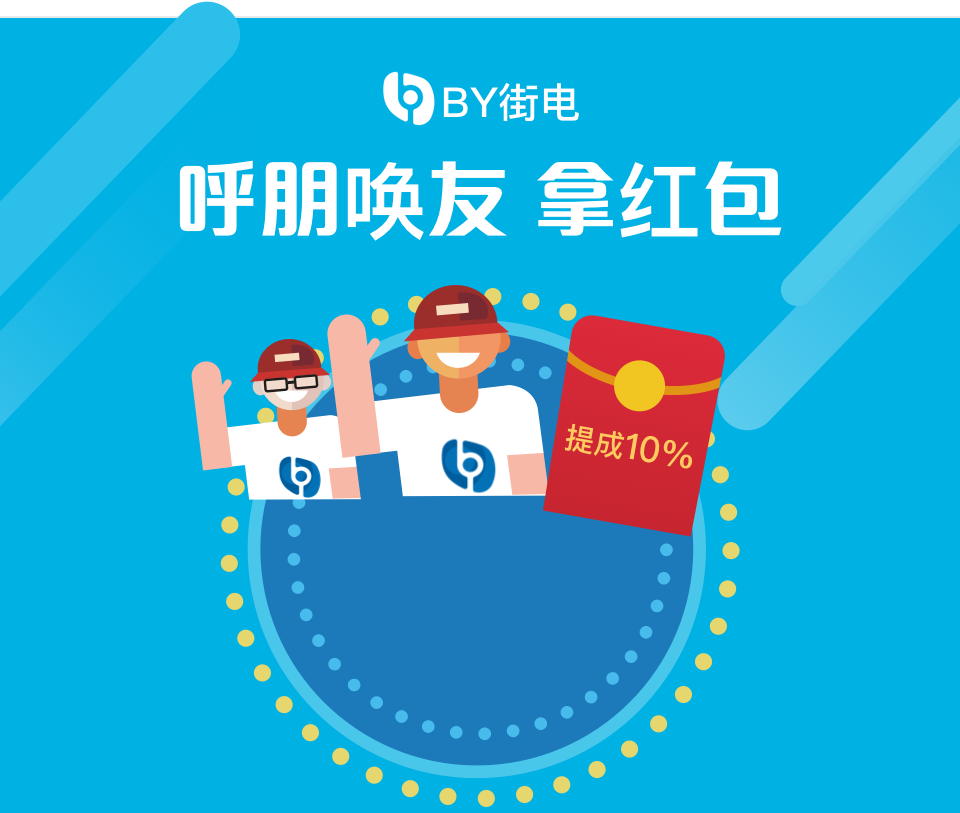
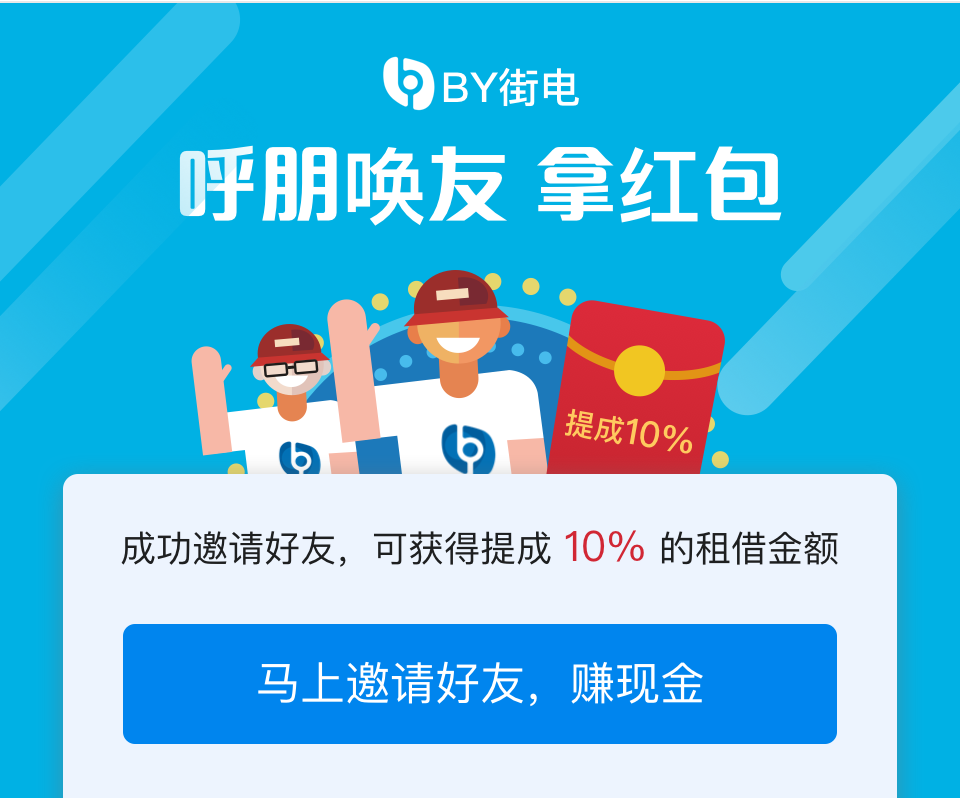
return rem

diff --git a/src/containers/recommend.vue b/src/containers/recommend.vue
@@ -2,9 +2,9 @@
   <div class="recommend-wrap">
     <div class="header">
       <img src="../assets/recommend.png" alt="">
-      <div class="board">
-        <p class="tips">成功邀请好友，可获得<strong>10%</strong>的租借金额</p>
-        <x-button :active="true" @on-click="toggleShare">马上邀请好友，赚现金</x-button>
+      <div class="board" @click="toggleShare">
+        <!--<p class="tips">成功邀请好友，可获得<strong>10%</strong>的租借金额</p>-->
+        <!--<x-button :active="true" @on-click="toggleShare">马上邀请好友，赚现金</x-button>-->
       </div>
     </div>
 
@@ -95,17 +95,17 @@ export default {
       transform: translateX(-50%);
       width: 80%;
       height: 118px;
-      background-color: #EDF4FE;
+      // background-color: #EDF4FE;
       border-radius: 4px 4px 0 0;
     }
     .tips{
       height: 32px;
       line-height: 48px;
       text-align: center;
-      font-size: 14px;
+      font-size: 14rpx;
     }
     strong{
-      font-size: 16px;
+      font-size: 16rpx;
       color: #FF8400;
     }
   }
@@ -131,12 +131,12 @@ export default {
       padding: 0 16px;
       line-height: 20px;
       color: #0085EE;
-      font-size: 16px;
+      font-size: 16rpx;
       white-space: nowrap;
     }
     .content{
       padding: 16px 0;
-      font-size: 14px;
+      font-size: 14rpx;
       color: #212121;
     }
     .friend{
@@ -164,18 +164,21 @@ export default {
       }
       .name{
         color: #212121;
-        font-size: 15px;
+        font-size: 15rpx;
       }
       .time{
         color: #999;
+        white-space: nowrap;
+        overflow: hidden;
+        text-overflow: ellipsis;
       }
     }
     
     .amount{
-      width: 100px;
+      width: 80rpx;
       text-align: right;
       line-height: 48px;
-      font-size: 16px;
+      font-size: 16rpx;
     }
   }
   .share-mask{

diff --git a/src/containers/borrow.vue b/src/containers/borrow.vue
@@ -43,19 +43,19 @@ export default {
   .divider{
     width: 50%;
     margin: 0 auto;
-    font-size: 14px;
+    font-size: 14rpx;
     color: #212121;
   }
   .tips{
     margin-top: 16px;
     text-align: center;
-    font-size: 14px;
+    font-size: 14rpx;
     span{
      color: #0085ee;
     }
   }
   .borrow-button{
-    font-size: 16px;
+    font-size: 16rpx;
   }
 }
 </style>

diff --git a/src/containers/my.vue b/src/containers/my.vue
@@ -111,7 +111,7 @@ export default {
   .ctrl-money{
     margin-top: 1px;
     display: flex;
-    padding: 8px 0;
+    padding: 4rpx 0;
     background-color: #fff;
     font-size: 14px;
     border-bottom: 1px solid #f4f4f4;
@@ -155,7 +155,7 @@ export default {
     color: @blue;
   }
   .weui-cell{
-    padding: 10px 15px;
+    padding: 10px 15rpx;
   }
 }
 </style>

diff --git a/build/vue-loader.conf.js b/build/vue-loader.conf.js
@@ -12,9 +12,9 @@ module.exports = {
   postcss: [
     require('autoprefixer')({
       browsers: ['iOS >= 7', 'Android >= 4.1']
+    }),
+    require('postcss-plugin-for-vue-px2rem-ignore1px')({
+        remUnit: 32
     })
-    // require('postcss-plugin-for-vue-px2rem-ignore1px')({
-    //     remUnit: 32
-    // })
   ]
 }

diff --git a/src/components/input-cell/index.vue b/src/components/input-cell/index.vue
@@ -37,8 +37,8 @@ export default {
 <style lang="less">
 .input-cell{
   display: flex;
-  padding: 10px 15px 10px 0; 
-  font-size: 14px;
+  padding: 10rpx 15px 10px 0; 
+  font-size: 14rpx;
   border-bottom: 1px solid #E8E8E8;
   label{
     display: inline-block;

diff --git a/src/containers/recharge.vue b/src/containers/recharge.vue
@@ -88,8 +88,8 @@ export default {
   .reminds{
     border-top: 1px solid #F2F2F2;
     text-align: center;
-    height: 64px;
-    line-height: 64px;
+    height: 64rpx;
+    line-height: 64rpx;
     font-size: 12px;
     color: #757575;
     .iconfont{

diff --git a/src/components/x-button/index.vue b/src/components/x-button/index.vue
@@ -29,7 +29,7 @@ export default {
   border-radius: 4px;
   background-color: #0085ee;
   color: rgba(255, 255, 255, 0.4);
-  font-size: 14px;
+  font-size: 14rpx;
 }
 .jiedian-button-active{
   color: rgba(255, 255, 255, 1);
